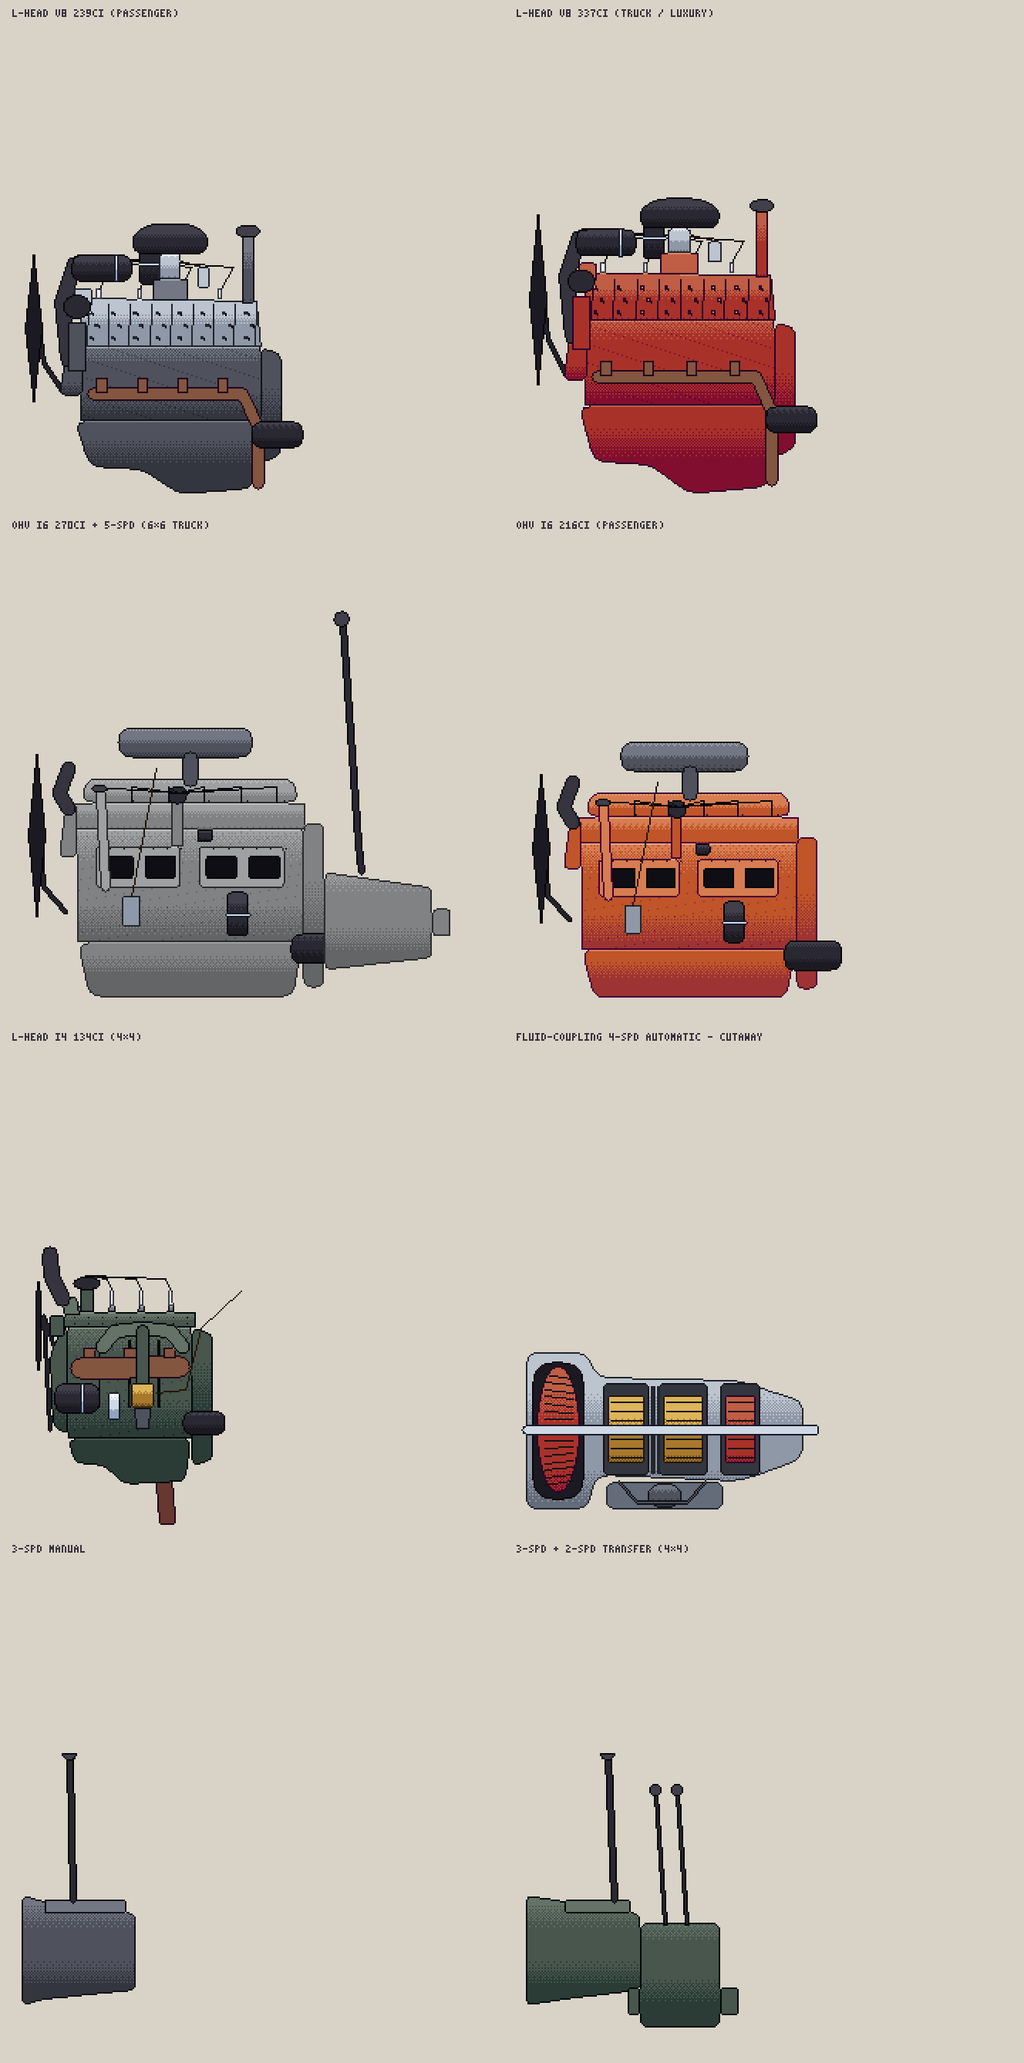
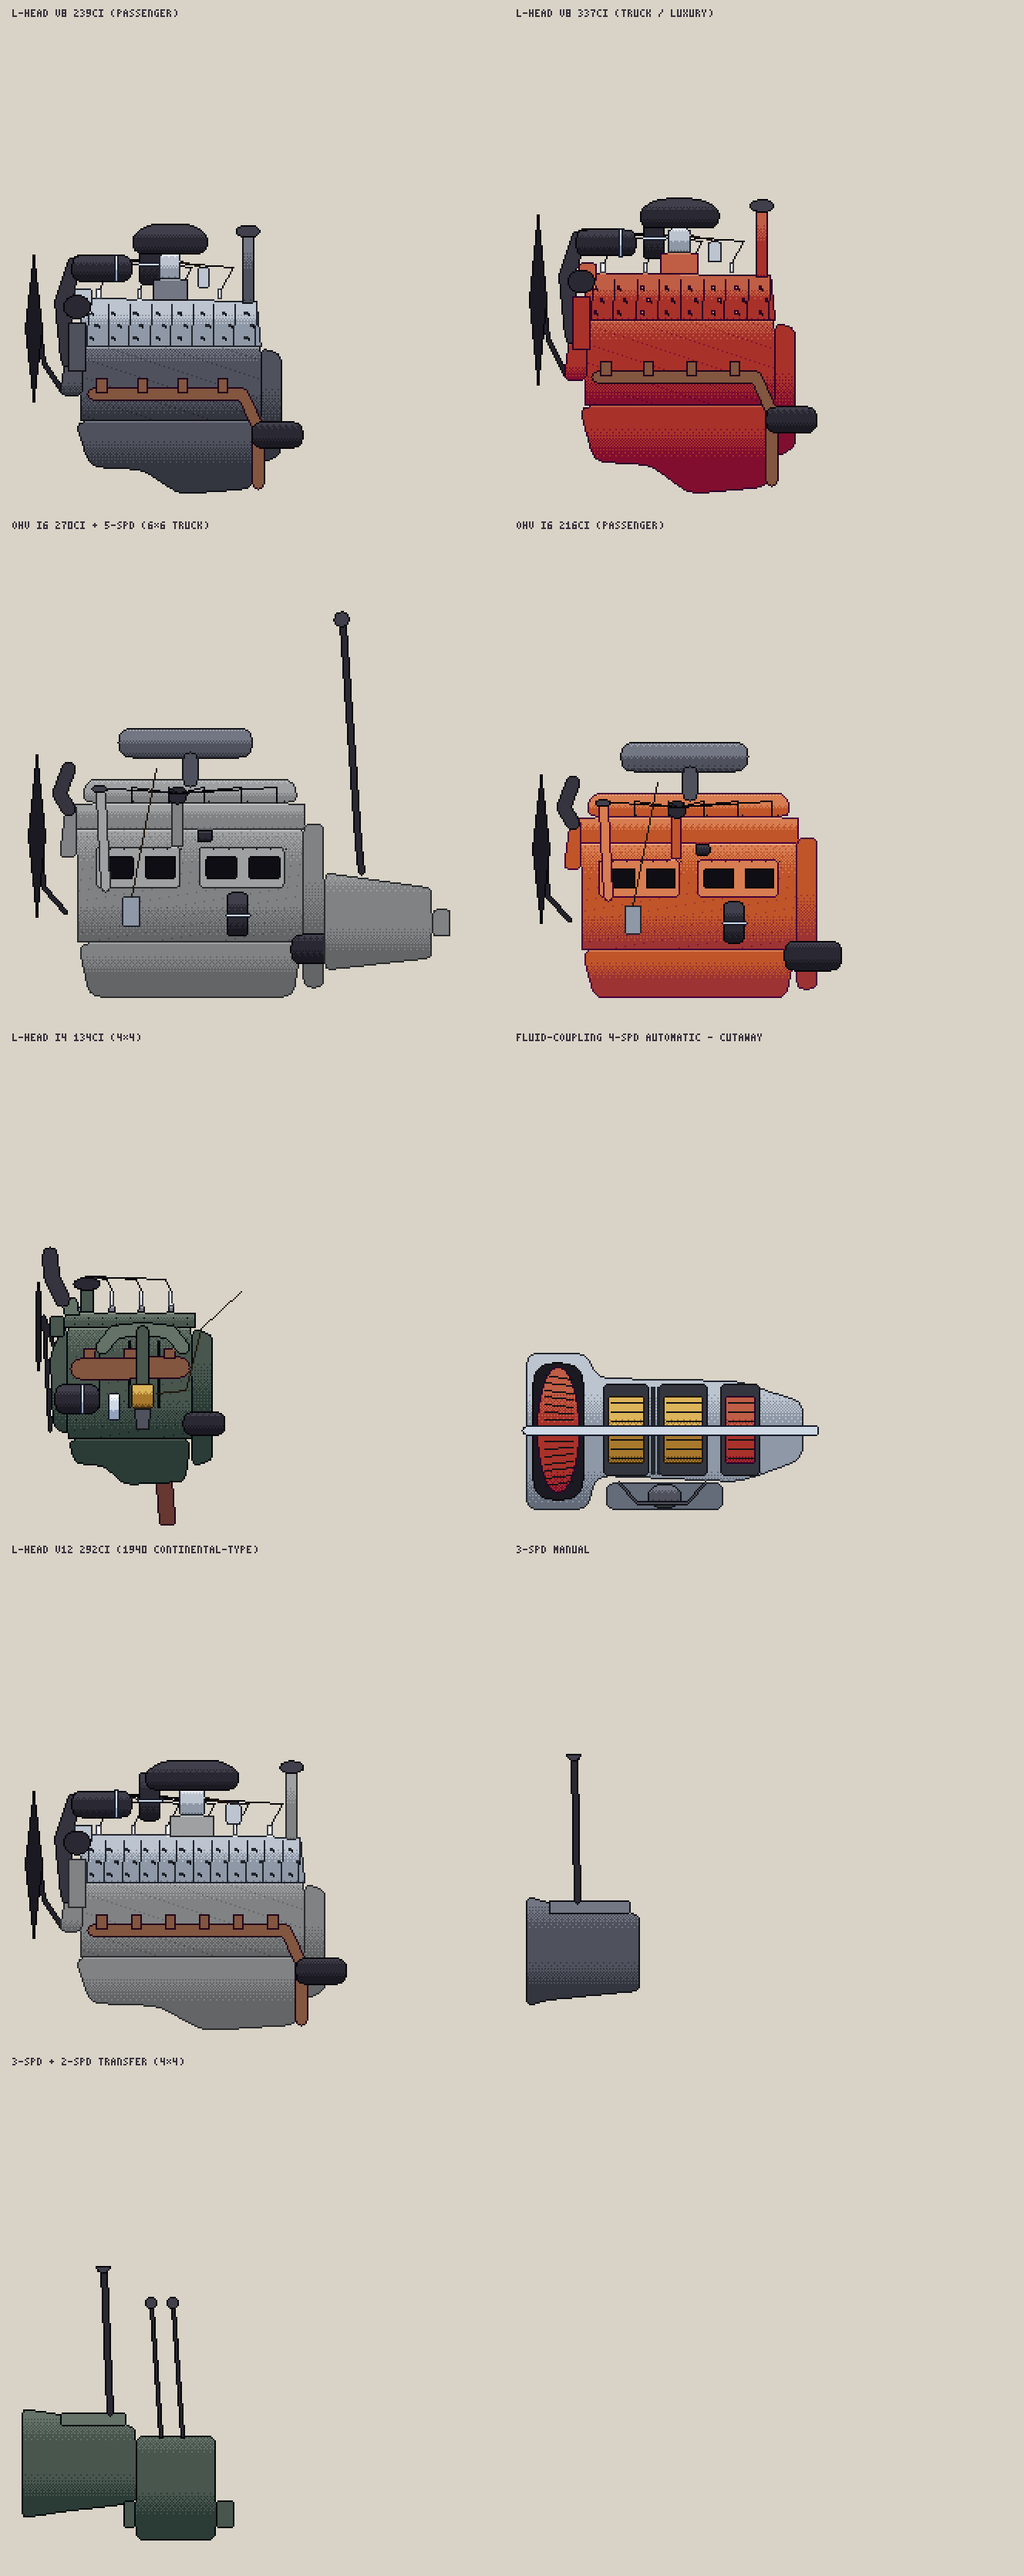
Stage 3: L-head generator generalised to V12, stage-3 plan (new references, design-system layering, test build), page conforms to artifact contract with hot snapshot
Claude-Session: https://claude.ai/code/session_01BMyqTudGWpuTphuwn8oTvi

diff --git a/gearhouse/play.html b/gearhouse/play.html
@@ -1,22 +1,13 @@
-<!doctype html>
-<html lang="en">
-<head>
-<meta charset="utf-8">
-<meta name="viewport" content="width=device-width, initial-scale=1">
 <title>Gearhouse Test Build</title>
+<meta name="claude:viewport-fit-sides" content="cover">
 <style>
-  :root { --bg: #140e0b; --frame: #7a5a22; }
-  @media (prefers-color-scheme: dark) { :root:not([data-theme="light"]) { --bg: #140e0b; --frame: #7a5a22; } }
-  :root[data-theme="dark"] { --bg: #140e0b; --frame: #7a5a22; }
-  html, body { margin: 0; height: 100%; background: var(--bg); overflow: hidden; }
-  body { display: grid; place-items: center; }
+  /* single dark look: a walnut desk around a pixel screen; the game draws everything else itself */
+  :root { --bg: #140e0b; --frame: #7a5a22; color-scheme: dark; }
+  html, body { height: 100%; }
+  body { margin: 0; background: var(--bg); overflow: hidden; display: grid; place-items: center; padding-left: max(16px, env(safe-area-inset-left, 0px)); padding-right: max(16px, env(safe-area-inset-right, 0px)); box-sizing: border-box; }
   .wrap { position: relative; line-height: 0; box-shadow: 0 0 0 2px var(--frame), 0 8px 40px #000; }
-  canvas { image-rendering: pixelated; image-rendering: crisp-edges; cursor: none; touch-action: none; display: block; }
+  canvas { image-rendering: pixelated; image-rendering: crisp-edges; cursor: none; touch-action: none; display: block; max-width: 100%; }
   #scan { position: absolute; left: 0; top: 0; pointer-events: none; background: repeating-linear-gradient(to bottom, rgba(0,0,0,0) 0, rgba(0,0,0,0) 2px, rgba(0,0,0,.13) 3px); }
 </style>
-</head>
-<body>
-<div class="wrap"><canvas id="screen" width="480" height="270"></canvas><div id="scan"></div></div>
+<div class="wrap"><canvas id="screen" width="480" height="270" aria-label="Gearhouse game screen"></canvas><div id="scan"></div></div>
 <script type="module" src="./game/main.mjs"></script>
-</body>
-</html>

diff --git a/gearhouse/docs/STAGE3_PLAN.md b/gearhouse/docs/STAGE3_PLAN.md
@@ -1,0 +1,69 @@
+# 3단계 계획: 엔진·변속기 시스템 반영, 차량 디자인 체계화, 테스트판
+
+> 이번 요청: ① 군용 전면 보강 ② 엔진·변속기 구조와 제작·작동을 검증된 설계 시뮬 구조로 반영 ③ 남은 작업 ④ 차량 디자인 시스템 체계화·디테일 향상 ⑤ 1930~40년대 짧은 테스트판(픽셀아트 고유 UI)
+> 진행 방식: 이 계획서를 기준으로 바로 진행하고, 단계마다 결과를 보고한다.
+
+## 1. 이번에 완료한 것
+
+| 항목 | 결과 | 위치 |
+|---|---|---|
+| 군용 전면 | 4x4: 정면 레퍼런스 실측으로 다시 그림. 바람막이 아래 차폭 전체 카울, 위로 넓어지는 그릴 셸 안의 헤드램프, 9슬롯, 펜더 선반·아래 휠하우스 그림자, 번호판 범퍼, 유리 너머 스페어·스티어링(운전석이 정면에서 오른쪽). 6x6: 캡 앞면을 펜더 높이까지, 캡 뒤 적재함·캔버스, 엔진룸 그림자, 미러. 공통: NDT 트레드 정면, 차축·디퍼렌셜·스프링 끝·타이로드·견인고리 | `gen/e2military.mjs` |
+| 엔진 설계·출력 모델 | 패밀리(배열·밸브기구·재질 = 툴링 투자) → 변형(보어·스트로크·압축비·캠·기화기·공정 등급). 체적효율·열효율·마찰·기화기 유량·시대 연료 옥탄(압축비 한계)·시대 피스톤 속도 한계로 토크 곡선, 회전 한계, 무게, 크기, 진동, 신뢰성, 원가, 툴링, 개발 기간 산출 | `sim/engine.mjs` |
+| 역사 보정 | 1932~1949 엔진 10종 대비: 7종이 출력·토크 ±10% 이내, 최대 오차 16% (고급 장행정 V8·I8). 리포트: `node sim/calibrate.mjs` | `sim/calibrate.mjs` |
+| 변속기·주행 | 시대 해금 형식 7종(크래시 박스 → 싱크로 → 오버드라이브 → 유체 클러치 → 유체 커플링 자동 → 토크컨버터), 기어비 자동 제안, 최고속·0→60·등판·순항 연비 시뮬. 검증: 1942 세단 18.6 mpg / 4x4 68 mph·20.9 mpg / 6x6 55 mph·8.1 mpg | `sim/drive.mjs` |
+| V12 엔진 | L헤드 생성기를 뱅크당 실린더 수로 일반화 → V12(스터드 열 12, 배기 포트 6) | `gen/engine40.mjs` |
+| 테스트판 | §4 | `play.html`, `game/` |
+
+## 2. 새 자료 분석 (이번 제공분)
+
+| 자료 | 판독 | 쓰임 |
+|---|---|---|
+| 1949~50형 신세대 2도어 쿠페 3면도 (격자 배경) | 격자로 직접 실측 가능. 풀 폰툰 슬래브 사이드, 뒤펜더 크롬 스톤가드, 휠 스커트 없음, 하드톱 같은 넓은 쿼터 창, 앞범퍼 오버라이더 2개, 노치백 트렁크 | `pontoon` 언어 1949 한계값 보정 + 복제 차량 |
+| 1949형 신세대 4도어 (선화) | 전면 펜더 라인이 앞문까지 이어짐, 뒤펜더 앞쪽 스톤가드, 문 4개 B필러 위치 | 4도어 비율 |
+| 1948 리어엔진 세단 4면도 (치수: 휠베이스 3250, 전장 5560, 전폭 2010) + 3D 4면 | 패스트백 4도어, 가운데 3번째 헤드램프, 뒤 펜더 위 흡기구, 리어엔진 배치, 낮은 차고 | 레이아웃 `RR` 대형 세단 복제, 뒤 흡기구 프롭 |
+| 1941 유니바디 컷어웨이 (투시) | 루프 레일·필러·사이드실·카울이 하나의 용접 구조, 앞 서브프레임 없이 펜더 에이프런이 앞 서스를 받침 | 섀시 `unibody` 하부·X-ray 구조선 |
+| 유니바디 하부 사진 2장 | 바닥판과 일체인 사이드 레일, 뒤 코일 스프링 + 트레일링 링크, 뒤 액슬 위 연료탱크, 배기관이 한쪽으로 우회, 바닥 프레스 리브 | 하부 뷰 `unibody` 렌더 규칙 |
+| V12 엔진 사진·일러스트 | 리브가 있는 알루미늄 헤드, 스터드 3열, 플러그 리드 6개, 뒤쪽 물 출구, 위 발전기 + 앞 팬, 헤드 사이 기화기 | V12 생성기 반영 완료 |
+
+참고: 이번 묶음에는 1948 스텝다운 세단 자체의 도면이 없었다. 스텝다운은 앞 단계에서 확인한 구조(페리미터 프레임, 뒷바퀴 바깥 레일)로 진행하고, 4면도는 추가로 찾는다.
+
+## 3. 차량 디자인 시스템 체계화
+
+지금까지 차량은 두 경로로 만들어졌다. (a) 실측 복제 차량: 손으로 쓴 좌표, (b) 생성기: 파라미터. 이를 **한 체계**로 묶는다.
+
+| 계층 | 내용 | 규칙 |
+|---|---|---|
+| 1 플랫폼 | 휠베이스, 트레드, 프레임(래더·X멤버·페리미터·유니바디), 레이아웃(FR·RR·4WD) | MechDef와 같은 데이터. 엔진 장착 검사의 기준 |
+| 2 차체 셸 | 디자인 언어(박스·유선·폰툰) × 차종(세단·쿠페·왜건·픽업·트럭·군용) | 연도별 한계값 (`bodygen`), 비율 클램프 |
+| 3 그린하우스 | 창 시스템 v2 파라미터(벨트, 드립, A/B/C 필러, 뒷창 컷, 환기창) | 차체 외곽에서 자동 유도 |
+| 4 패널·펜더 | 분리 펜더 / 반폰툰 / 폰툰, 러닝보드, 스커트 | 시대 해금 |
+| 5 프롭 슬롯 | 그릴, 램프, 범퍼, 트림, 휠, 마스코트 | 슬롯 호환 + 고립 요소 자동 연결 |
+| 6 재질 | 강판 등급, 도장, 크롬, 목재, 캔버스, 군용 무광 | 재질 셰이더 |
+| 7 기계 결합 | 엔진룸 상자, 터널, 탱크, 배기 | 장착 검사, X-ray·분해도·하부 |
+| 8 출력 | 5뷰 + X-ray + 하부 + 게임 스프라이트(25 mm/px), 상세(12.5), 부품(5) | 같은 좌표계 |
+
+**복제 차량 = 생성기 프리셋**: 실측 복제 차량을 위 파라미터 묶음으로 다시 기록해, 게임 안에서 경쟁사 차량·프리셋으로 쓰고 플레이어가 조정할 수 있게 한다. 손 좌표는 실측 검증용으로 남긴다.
+
+**디테일 향상 목록**: 정면·후면 뷰 자동 생성(측면 데이터에서), 도어 핸들·키홀·배수구 같은 마이크로 디테일, 휠 스커트·스톤가드, 크롬 반사의 하늘·지평선 밴드 통일, 하부 그림자.
+
+## 4. 1930~1949 테스트판
+
+| 항목 | 내용 |
+|---|---|
+| 화면 | 480×270 픽셀 버퍼를 정수 배율로 확대. 모든 UI(창·버튼·슬라이더·선택기·그래프·커서)를 직접 픽셀로 그림: 호두나무 책상, 크림색 제도지, 황동 베벨, 옥스블러드 에나멜 제목판, 리벳 |
+| 메인 메뉴 | 새 게임 / 이어하기(3슬롯) / 설정(배율, CRT 주사선) |
+| 새 게임 | 회사명, 국가 6개(부·연료비·도로·임금·전쟁 기간이 다름), 시작 연도 1930~1945, 자본 3단계, 연구 규모 3단계 |
+| 엔진 설계 | 배열·밸브기구(연구 해금)·보어·스트로크·압축비(시대 한계)·캠·기화기·공정 등급 → 토크/출력 곡선, 제원, 측면 스프라이트 미리보기 → 툴링 |
+| 변속기 | 형식(시대·연구 해금)·단수·1단·최고단 → 기어비 사다리 |
+| 차 디자인 | 디자인 언어(연도 한계)·차종·휠베이스·비율 슬라이더 → 실시간 픽셀 스프라이트, 엔진·변속기·종감속·트림·장비, 세그먼트·가격 → 성능·연비·등판·원가·장착 검사·매력도 → 출시(툴링·개발 기간) |
+| 경영 | 월 단위: 생산 계획, 재고, 판매, 평판, 연구, 공장 확장. 대공황(1931~33), 1937 경기 후퇴, 국가별 전시 민수 생산 중단 → 군납 계약, 전후 수요 폭발 |
+| 노후화 | 기술 계승·노후화 계획의 유예·하락 곡선(1930년대 6/14년, 1940년대 5/12년)으로 현대성 점수 반영 |
+| 종료 | 1950년 1월 또는 파산 시 결산 화면 |
+| 한계 | UI는 영문 픽셀 폰트(한글 픽셀 폰트는 다음 단계), 경쟁사는 시장 기준선 모델, 군납은 단순 계약 |
+
+## 5. 다음 진행 순서
+1. 신세대 세단 복제: 1949~50 폰툰 쿠페(격자 실측)·4도어, 1948 리어엔진 대형 세단 (5뷰 + X-ray + 하부)
+2. 유니바디 하부·X-ray 렌더 (1941 유니바디형, 1946 소형)
+3. 나머지 민수 6종 MechDef + V8 90° 정면 단면
+4. 디자인 체계 §3: 복제 차량 → 생성기 프리셋, 정면·후면 자동 생성
+5. 테스트판 2차: 복제 차량을 경쟁사로 등장, 한글 픽셀 폰트, 군납 차량 설계, 밸런스

diff --git a/gearhouse/README.md b/gearhouse/README.md
@@ -6,6 +6,10 @@
 엔지니어링 시뮬레이션 장르(예: *Automation*)의 설계 깊이에서 영감을 받았지만,
 시스템 구성·UI·아트·명칭은 모두 이 프로젝트 고유의 것으로 만든다. 외부 게임의 에셋/데이터는 쓰지 않는다.
 
+## 테스트판
+
+`play.html` — 1930~1949 플레이 가능한 테스트 (픽셀 UI). 로컬: `python3 -m http.server` 후 `/play.html`. 엔진 모델 보정 리포트: `node sim/calibrate.mjs`
+
 ## 기획 문서
 
 | 문서 | 내용 |
@@ -19,6 +23,7 @@
 | [docs/REFERENCE_ANALYSIS_2.md](docs/REFERENCE_ANALYSIS_2.md) | 2차 레퍼런스 분석: 범퍼·하부·창문·장식 패턴, 디테일 축척 12.5mm/px, 자료 요청 목록 |
 | [docs/E1_ASSEMBLY_TEST.md](docs/E1_ASSEMBLY_TEST.md) | 조립 테스트: 프롭 무작위 조합 1930년대 차량 20대, 슬롯 호환 규칙, 디자인 점수 |
 | [docs/E2_REVISION_PLAN.md](docs/E2_REVISION_PLAN.md) | 1940년대 수정 계획(창문·적재함·군용) + 섀시·파워트레인 결합 계획, 자료 요청 |
+| [docs/STAGE3_PLAN.md](docs/STAGE3_PLAN.md) | 3단계: 엔진·변속기 시스템 구현, 새 자료 분석, 차량 디자인 체계화, 테스트판 |
 | [docs/ENGINE_DRIVETRAIN_SYSTEM_PLAN.md](docs/ENGINE_DRIVETRAIN_SYSTEM_PLAN.md) | 엔진·변속기·구동계 설계 시스템 (검증된 설계 시뮬 구조 참고 + 역사 제원 보정) |
 | [docs/REFERENCE_ANALYSIS_E2B.md](docs/REFERENCE_ANALYSIS_E2B.md) | 1940년대 추가 자료: 픽업 치수, 프레임·스텝다운, 엔진 8종, 자동변속기 컷어웨이 |
 | [docs/TECH_PROGRESSION_PLAN.md](docs/TECH_PROGRESSION_PLAN.md) | 기술 계승·노후화 평가 (최근 시대일수록 엄격) |
